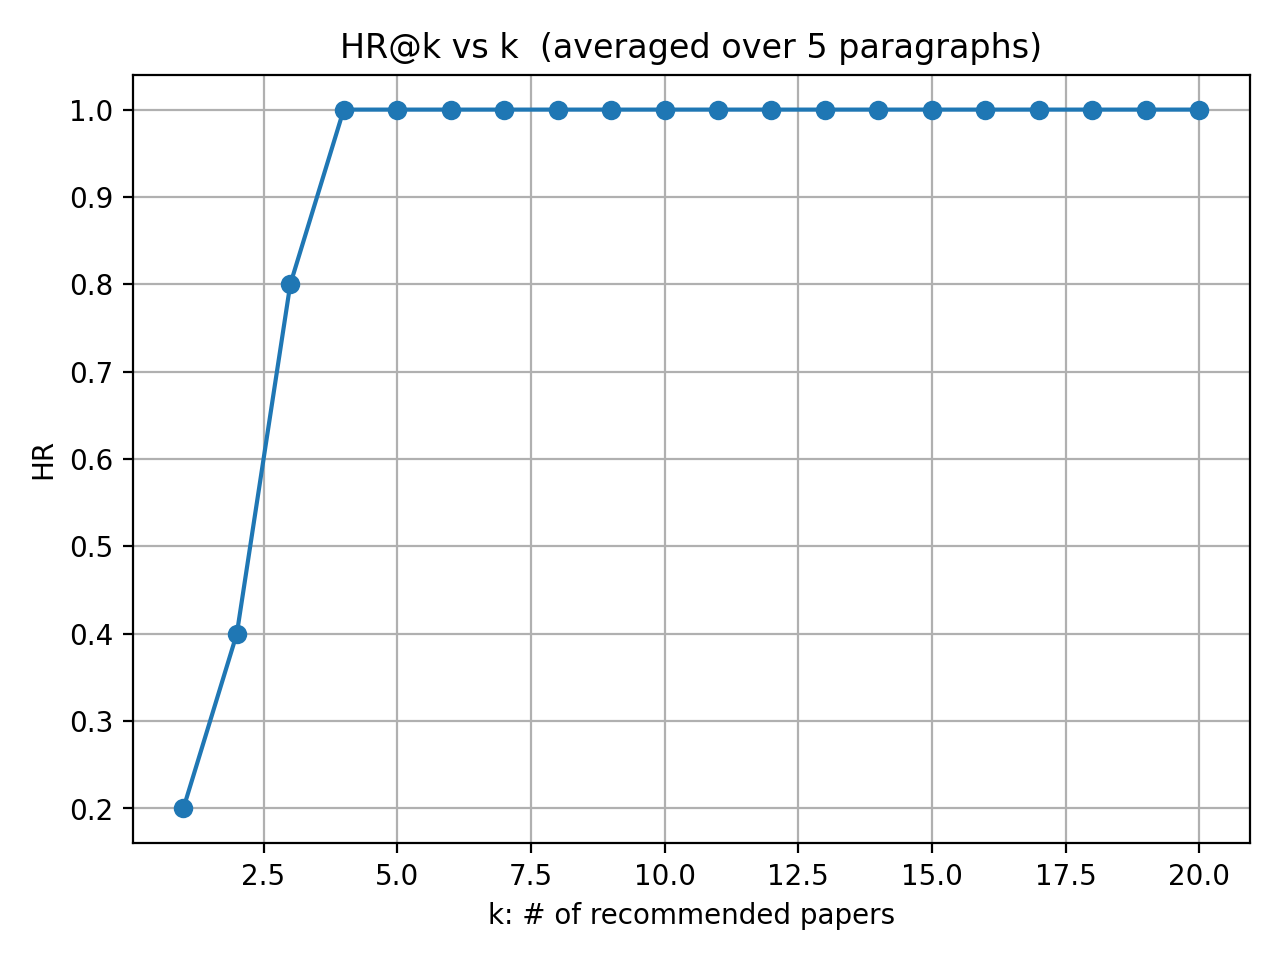
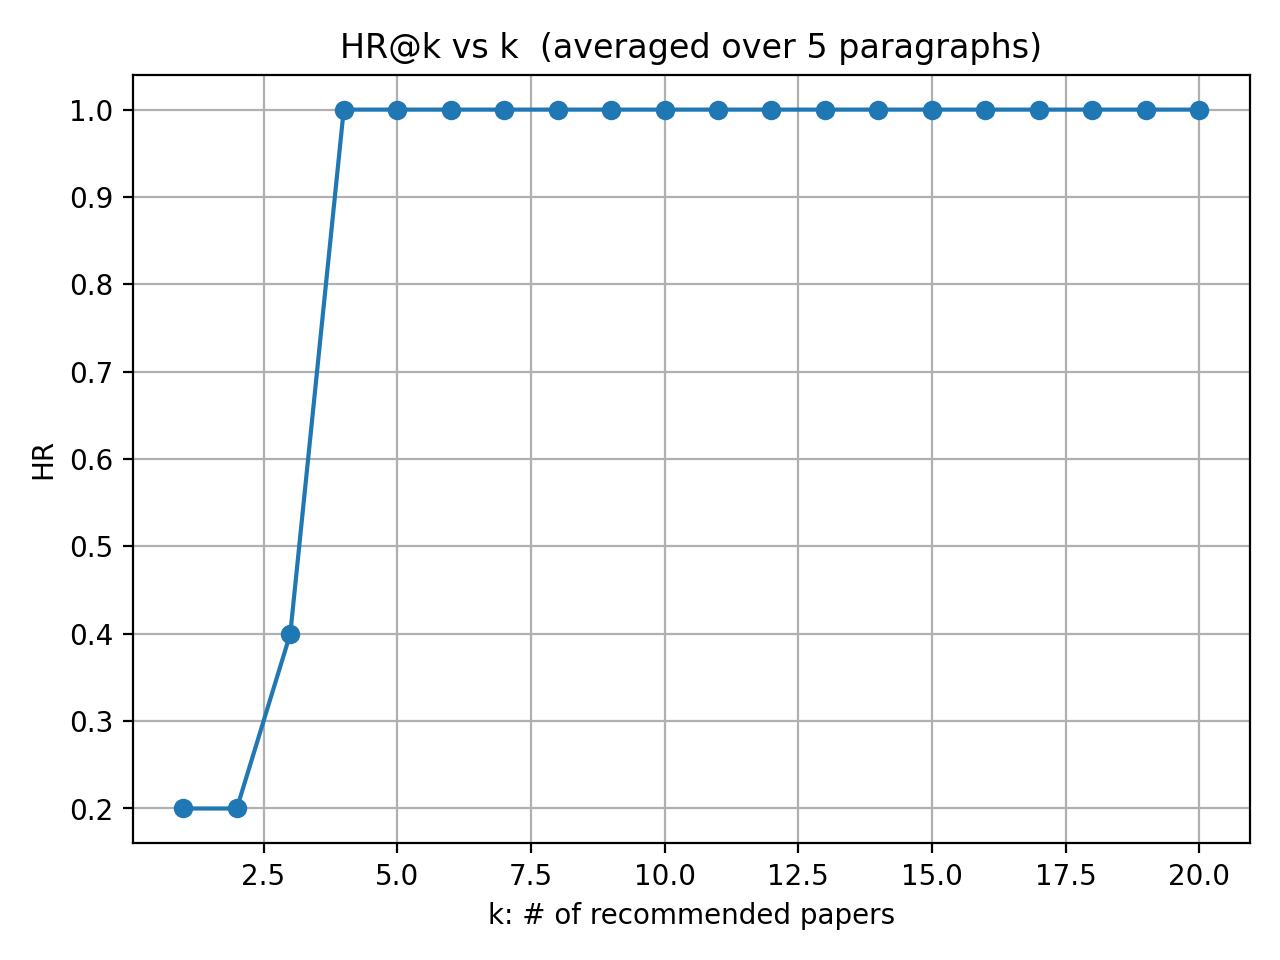
Added comments

Changed region(s): [[0.1875, 0.125, 0.2812, 0.6875], [0.125, 0.6562, 0.2188, 0.8438]]

diff --git a/main/llm/eval_llm_full.py b/main/llm/eval_llm_full.py
@@ -1,6 +1,5 @@
 
-# This is new evaluation code. It considers only 
-
+# This is full BM25 only - no hops, no chunks
 from __future__ import annotations
 import os
 import numpy as np
@@ -18,13 +17,11 @@ from recall import (
 from rerank_llm import rerank_batch, RerankError  # returns DataFrame with pid, score
 import matplotlib.pyplot as plt         
 
-
 # config
 TESTSET_PATH  = Path(os.getenv("TESTSET_PATH", "/home/abhi/Desktop/Manami/recommender-system/datasets/testset_2020_references.jsonl"))
-MAX_CASES     = int(os.getenv("MAX_CASES", 5)) # Number of test cases to evaluate
+MAX_CASES     = int(os.getenv("MAX_CASES", 100)) # Number of test cases to evaluate
 SIM_THRESHOLD = float(os.getenv("SIM_THRESHOLD", 0.95))
 TOPK_LIST     = (1, 2, 3, 4, 5, 6, 7, 8, 9, 10, 11, 12, 13, 14, 15, 16, 17, 18, 19, 20) # K-values for evaluation metrics
-
 
 # Neo4j connection
 _NEO4J_URI  = os.getenv("NEO4J_URI",  "bolt://localhost:7687")
@@ -35,9 +32,10 @@ _driver     = GraphDatabase.driver(_NEO4J_URI, auth=(_NEO4J_USER, _NEO4J_PASS))
 # Tokenizer for chunking
 TOKENIZER  = AutoTokenizer.from_pretrained("meta-llama/Meta-Llama-3.1-8B-Instruct", use_fast=True)
 
-# helpers
+# cosine similarity 
 def cosine_matrix(a: np.ndarray, b: np.ndarray) -> np.ndarray:
     return a @ b.T
+
 
 def evaluate_case(
     paragraph: str,
@@ -48,47 +46,53 @@ def evaluate_case(
     # so that BM25 and embeddings both work on normalized text.
     cleaned = clean_text(paragraph)
 
-    # 1) This runs a full-text BM25 search over my paragraph document index, returning the top 40 candidate paper IDs along with their BM25 scores.
-    bm25 = recall_fulltext(cleaned, k=20)
+    # This runs a full-text BM25 search over my paragraph document index, returning the top 40 candidate paper IDs (because many abstract might be missed) along with their BM25 scores.
+    # BM25 does consider paragraph length as well so better than tf-idf
+    bm25 = recall_fulltext(cleaned, k=50)
 
-    # 2) I pull each candidate’s abstract and publication year from Neo4j, 
-    # drop any papers missing an abstract, and filter out papers published after the paragraph’s target year.
+    # I pull each candidate’s abstract and publication year from Neo4j, 
+    # drop any papers missing an abstract. 
     meta   = fetch_metadata(bm25["pid"].tolist())
     merged = (
         bm25
         .merge(meta[["pid", "title", "abstract", "year"]], on="pid", how="left")
         .dropna(subset=["abstract"])
+        .sort_values("bm25_score", ascending=False)   # explicit sort
+        .head(20)
     )
+
+    # This fillter out the future papers but now the year is set to 2020 (latest in the dataset) so it does not matter. 
     if target_year is not None:
         merged = merged[merged["year"] < target_year]
     if merged.empty:
         raise ValueError("Empty candidate set after filtering by year and abstract")
-
+    
+    # Ask the LLM to rerank your 20 candidates by relevance to the paragraph.
     try:
         reranked = rerank_batch(
             paragraph,
             merged[["pid","title","abstract"]],
             k=20,
-            # batch_size=…  you can tune this
         )
         final_pids = reranked["pid"].tolist()
+    # On failure, just keep the original BM25 ordering.
     except RerankError as e:
         print("⚠ Rerank failed, fallback to BM25 order:", e)
         final_pids = merged["pid"].tolist()
 
-    # 3) fetch and embed all the true reference papers’ abstracts. 
+    # fetch and embed all the true reference papers’ abstracts. 
     # If none have valid abstracts, create a zero-matrix so that nothing is ever “similar.”
     ref_meta = fetch_metadata([str(p) for p in true_pids]).dropna(subset=["abstract"])
     ref_ids  = list(ref_meta["pid"])
     ref_embs = np.stack([embed(a) for a in ref_meta["abstract"]]) if ref_ids else np.zeros((0,768))
 
-
-    # 7) Embed each candidate’s abstract
+    # Embed each candidate’s abstract
     cand_meta = merged.set_index("pid").loc[final_pids]
     cand_absts = cand_meta["abstract"].tolist()
     cand_embs  = np.stack([embed(a) for a in cand_absts])
 
-    # 8) Compute full similarity matrix: candidates × references
+    # Keep the references still unmatched 
+    # If the similarity is more than 0.95, mark that candidate as a hit and remove the reference from future matching.
     sims      = cosine_matrix(cand_embs, ref_embs) if ref_ids else np.zeros((len(final_pids),0))
     unmatched = set(range(len(ref_ids)))
     hits      = []
@@ -97,10 +101,14 @@ def evaluate_case(
         if not unmatched:
             hits.append(False)
             continue
+
+        # look only at still‐unmatched references
         ref_idxs = list(unmatched)
         sim_vals = sims[i, ref_idxs]
         j = sim_vals.argmax()
         if sim_vals[j] >= SIM_THRESHOLD:
+
+            # mark both candidate as hit, and remove that ref
             hits.append(True)
             unmatched.remove(ref_idxs[j])
         else:
@@ -124,11 +132,12 @@ def evaluate_case(
         out.update({f"P@{k}": p_at_k, f"HR@{k}": hr_at_k, f"R@{k}": r_at_k, f"NDCG@{k}": ndcg})
     return out
 
-# main function
-# Runs evaluation over the test cases and prints the average metrics.
+
 import matplotlib
 matplotlib.use("Agg") 
 
+# main function
+# Runs evaluation over the test cases and prints the average metrics.
 def main() -> None:
     if not TESTSET_PATH.exists():
         raise FileNotFoundError(f"Testset not found at {TESTSET_PATH}")
@@ -144,7 +153,7 @@ def main() -> None:
         )
     metric_df = pd.DataFrame(metrics)
     ks = np.array(TOPK_LIST)
-    # 2) evaluate each paragraph and tag with method name
+
     rows: List[dict] = []
     for rec in df.to_dict("records"):
         m = evaluate_case(
@@ -152,23 +161,13 @@ def main() -> None:
             [str(pid) for pid in rec.get("references", [])],
             rec.get("year")
         )
-        m["method"] = "bm25_full_llm"   # change this tag per script
+        m["method"] = "bm25_full_llm"  
         rows.append(m)
-
-    # 3) build DataFrame, write to CSV
-    metric_df = pd.DataFrame(rows)
-    out_csv   = Path(__file__).parent / "eval" / "metrics_bm25_full_llm.csv"
-    metric_df.to_csv(out_csv, index=False)
-    print(f"\nSaved per‐paragraph metrics to {out_csv}")
-
-    # 4) (optional) print average metrics
-    avg = metric_df.mean(numeric_only=True).round(4)
-    print("\nAverage metrics:\n", avg)
 
     for prefix in ["P", "HR", "R", "NDCG"]:
         y = metric_df[[f"{prefix}@{k}" for k in ks]].mean().values
 
-        # 1) create & plot
+        # create & plot
         plt.figure()
         plt.plot(ks, y, marker="o")
         plt.title(f"{prefix}@k vs k  (averaged over {len(metric_df)} paragraphs)")
@@ -178,13 +177,21 @@ def main() -> None:
         plt.tight_layout()
         plt.show()
 
-        # 2) save and close
-        plt.savefig(Path(__file__).parent / "csv" / f"{prefix.lower()}_atk.png", dpi=200)
+        # save and close
+        plt.savefig(Path(__file__).parent / "eval" / f"{prefix.lower()}_atk.png", dpi=200)
         plt.close()
 
     avg = pd.DataFrame(metrics).mean(numeric_only=True)
     print("\nEvaluation with RRF + LLM scoring - avg metrics:\n", avg.round(4))
 
+    # build DataFrame and write to CSV
+    metric_df = pd.DataFrame(rows)
+    out_csv   = Path(__file__).parent / "csv" / "metrics_bm25_full_llm.csv"
+    metric_df.to_csv(out_csv, index=False)
+    print(f"\nSaved per‐paragraph metrics to {out_csv}")
+
+    avg = metric_df.mean(numeric_only=True).round(4)
+    print("\nAverage metrics:\n", avg)
 
 if __name__ == "__main__":
     main()

diff --git a/main/llm/eval_bm25.py b/main/llm/eval_bm25.py
@@ -1,5 +1,4 @@
-# BM25 full search 
-
+# BM25 full-only search 
 import os
 from pathlib import Path
 from typing import List, Optional
@@ -14,44 +13,20 @@ import matplotlib.pyplot as plt
 
 # Hard-coded testset path and params
 TESTSET_PATH   = Path("/home/abhi/Desktop/Manami/recommender-system/datasets/testset_2020_references.jsonl")
-MAX_CASES      = 5
+MAX_CASES      = 100  # How many paragraphs to consider
 SIM_THRESHOLD  = 0.95
 TOPK_LIST     = (1, 2, 3, 4, 5, 6, 7, 8, 9, 10, 11, 12, 13, 14, 15, 16, 17, 18, 19, 20) # K-values for evaluation metrics
 
-# Neo4j
+# Neo4j database
 NEO4J_URI  = os.getenv("NEO4J_URI",  "bolt://localhost:7687")
 NEO4J_USER = os.getenv("NEO4J_USER", "neo4j")
 NEO4J_PASS = os.getenv("NEO4J_PASS", "***REMOVED***")
 driver     = GraphDatabase.driver(NEO4J_URI, auth=(NEO4J_USER, NEO4J_PASS))
 
 
-# cosign similarity, precision, HR, recall, NDCG, year sort
+# cosign similarity
 def cosine_matrix(a: np.ndarray, b: np.ndarray) -> np.ndarray:
     return a @ b.T
-
-def precision_by_sim(pred, sim_map, k):
-    return sum(sim_map.get(p, False) for p in pred[:k]) / k if k else 0.0
-
-def recall_by_sim(pred, sim_map, k, n_rel):
-    if n_rel == 0: return 0.0
-    return sum(sim_map.get(p, False) for p in pred[:k]) / n_rel
-
-def hit_rate_by_sim(pred, sim_map, k):
-    return float(any(sim_map.get(p, False) for p in pred[:k]))
-
-def ndcg_by_sim(pred, sim_map, k):
-    rels  = [1 if sim_map.get(p, False) else 0 for p in pred[:k]]
-    dcg   = sum(r / np.log2(i+2) for i, r in enumerate(rels))
-    ideal = sorted(rels, reverse=True)
-    idcg  = sum(r / np.log2(i+2) for i, r in enumerate(ideal))
-    return dcg/idcg if idcg > 0 else 0.0
-
-def fetch_year_by_doi(doi: Optional[str]) -> Optional[int]:
-    if not doi: return None
-    query = "MATCH (p:Paper {doi: $doi}) RETURN p.year AS year"
-    with driver.session() as sess:
-        rec = sess.run(query, doi=doi).single()
-    return rec["year"] if rec and rec["year"] is not None else None
 
 
 def evaluate_case(
@@ -64,36 +39,41 @@ def evaluate_case(
     # so that BM25 and embeddings both work on normalized text.
     cleaned = clean_text(paragraph)
 
-    # 1) This runs a full-text BM25 search over my paragraph document index, returning the top 40 candidate paper IDs along with their BM25 scores.
-    bm25 = recall_fulltext(cleaned, k=20)
+    # This runs a full-text BM25 search over my paragraph document index, returning the top 40 candidate paper IDs (because many abstract might be missed) along with their BM25 scores.
+    # BM25 does consider paragraph length as well so better than tf-idf
+    bm25 = recall_fulltext(cleaned, k=50)
 
-    # 2) I pull each candidate’s abstract and publication year from Neo4j, 
-    # drop any papers missing an abstract, and filter out papers published after the paragraph’s target year.
+    # I pull each candidate’s abstract and publication year from Neo4j, 
+    # drop any papers missing an abstract. 
     meta   = fetch_metadata(bm25["pid"].tolist())
     merged = (
         bm25
         .merge(meta[["pid","abstract","year"]], on="pid", how="left")
-        .dropna(subset=["abstract"])
+        .dropna(subset=["abstract"]) 
+        .sort_values("bm25_score", ascending=False)   # explicit sort
+        .head(20)
     )
+
+    # This fillter out the future papers but now the year is set to 2020 (latest in the dataset) so it does not matter. 
     if target_year is not None:
         merged = merged[merged["year"] < target_year]
 
-    # 3) fetch and embed all the true reference papers’ abstracts. 
+    # fetch and embed all the true reference papers’ abstracts. 
     # If none have valid abstracts, create a zero-matrix so that nothing is ever “similar.”
     ref_meta = fetch_metadata([str(p) for p in true_pids]).dropna(subset=["abstract"])
     ref_ids  = list(ref_meta["pid"])
     ref_embs = np.stack([embed(a) for a in ref_meta["abstract"]]) if ref_ids else np.zeros((0,768))
 
-
-    # 7) Embed each candidate’s abstract
+    # Embed each candidate’s abstract
     cand_ids   = merged["pid"].tolist()
     cand_absts = merged["abstract"].tolist()
     cand_embs  = np.stack([embed(a) for a in cand_absts])
 
-    # 8) Compute full similarity matrix: candidates × references
+    # Compute full similarity matrix: candidates × references
     sims = cosine_matrix(cand_embs, ref_embs)  # shape (n_cand, n_ref)
 
-    # 9) Greedy one‐to‐one matching at threshold
+    # Keep the references still unmatched 
+    # If the similarity is more than 0.95, mark that candidate as a hit and remove the reference from future matching.
     unmatched = set(range(len(ref_ids)))   # indices of refs not yet covered
     hits      = []  # for each candidate, store whether it “covers” a new ref
 
@@ -114,7 +94,7 @@ def evaluate_case(
         else:
             hits.append(False)
 
-    # 10) Build metrics using this “hits” list
+    # these are the metrics to show the accuracy of the system 
     n_rel = len(ref_ids)
     results = {}
     for k in TOPK_LIST:
@@ -126,7 +106,6 @@ def evaluate_case(
         idcg = sum(1 / np.log2(i + 2) for i in range(min(n_rel, k)))
         ndcg = (dcg / idcg) if idcg else 0.0
         results.update({f"P@{k}": p_at_k, f"HR@{k}": hr_at_k, f"R@{k}": r_at_k, f"NDCG@{k}": ndcg})
-
     return results
 
 def main() -> None:
@@ -145,7 +124,7 @@ def main() -> None:
     print("\nBM25 + LLM rerank (k=20) average metrics:\n")
     print(metric_df.mean(numeric_only=True).round(4))
 
-    # plotting (optional)
+    # plotting 
     ks = np.array(TOPK_LIST)
     for prefix in ["P","HR","R","NDCG"]:
         y = metric_df[[f"{prefix}@{k}" for k in ks]].mean().values
@@ -169,12 +148,12 @@ def main() -> None:
         m["method"] = "bm25_full"                   
         rows.append(m)
 
-    # 3) build DataFrame and write to CSV
+    # build DataFrame and write to CSV
     metric_df = pd.DataFrame(rows)
     out_path = Path(__file__).parent / "csv" / "metrics_bm25_full.csv"
     metric_df.to_csv(out_path, index=False)
 
-    # 4) print average metrics
+    # print average metrics
     print("\nBM25 full-text average metrics:\n",
           metric_df.mean(numeric_only=True).round(4))
 

diff --git a/main/llm/eval_ctx_llm.py b/main/llm/eval_ctx_llm.py
@@ -1,6 +1,5 @@
 
 # This is evaluation code which considers 60 candidates and do embedding search as well
-
 from __future__ import annotations
 import os
 import json
@@ -22,13 +21,11 @@ from recall import (
 from rerank_llm import rerank_batch, RerankError  # returns DataFrame with pid, score
 import matplotlib.pyplot as plt         
 
-
 # config
 TESTSET_PATH  = Path(os.getenv("TESTSET_PATH", "/home/abhi/Desktop/Manami/recommender-system/datasets/testset_2020_references.jsonl"))
 MAX_CASES     = int(os.getenv("MAX_CASES", 5)) # Number of test cases to evaluate
 SIM_THRESHOLD = float(os.getenv("SIM_THRESHOLD", 0.95))
 TOPK_LIST     = (1, 2, 3, 4, 5, 6, 7, 8, 9, 10, 11, 12, 13, 14, 15, 16, 17, 18, 19, 20) # K-values for evaluation metrics
-
 
 # Neo4j connection
 _NEO4J_URI  = os.getenv("NEO4J_URI",  "bolt://localhost:7687")
@@ -39,7 +36,7 @@ _driver     = GraphDatabase.driver(_NEO4J_URI, auth=(_NEO4J_USER, _NEO4J_PASS))
 # Tokenizer for chunking
 TOKENIZER  = AutoTokenizer.from_pretrained("meta-llama/Meta-Llama-3.1-8B-Instruct", use_fast=True)
 
-# helpers
+# cosine similarity 
 def cosine_matrix(a: np.ndarray, b: np.ndarray) -> np.ndarray:
     return a @ b.T
 
@@ -48,11 +45,12 @@ def evaluate_case(
     true_pids: List[str],
     target_year: Optional[int] = None
 ) -> dict:
-    # 1. clean & chunk paragraph
+    # take the raw paragraph, clean it (lower-casing, removing punctuation/stopwords, etc.), 
+    # so that BM25 and embeddings both work on normalized text.
     cleaned = clean_text(paragraph)
     chunks  = chunk_tokens(cleaned, TOKENIZER, win=256, stride=64)
 
-    # 2. recall & fuse with reciprocal rank fusion (RRF)
+    # recall & fuse with reciprocal rank fusion (RRF)
     # full-text & vector for whole paragraph
     full_bm25 = recall_fulltext(cleaned).assign(src="full_bm25")
     full_vec  = recall_vector(embed(cleaned)).assign(src="full_vec")

diff --git a/main/llm/merge_plot.py b/main/llm/merge_plot.py
@@ -5,8 +5,8 @@ import matplotlib.pyplot as plt
 files = [
     "metrics_bm25_full.csv",
     "metrics_bm25_full_llm.csv",
-    "metrics_bm25_hop.csv",
-    "metrics_bm25_hop_llm.csv",
+    "metrics_rrf_chunk.csv",
+    "metrics_bm25_hop_rerank.csv",
 ]
 dfs = [pd.read_csv(f"./csv/{fn}") for fn in files]
 
